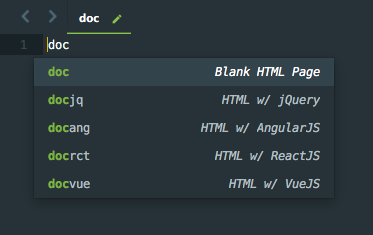
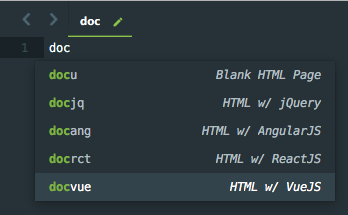
Update trigger keyword

diff --git a/README.md b/README.md
@@ -16,7 +16,7 @@ Copy the files to your Packages directory.
 Usage
 ---
 
-With a blank file open, type "doc" and press TAB.
+With a blank file open, type "docu" and press TAB.
 
 ![alt tag](https://raw.githubusercontent.com/yesilfasulye/sublime_html_page_snippets/master/screenshot.png)
 
